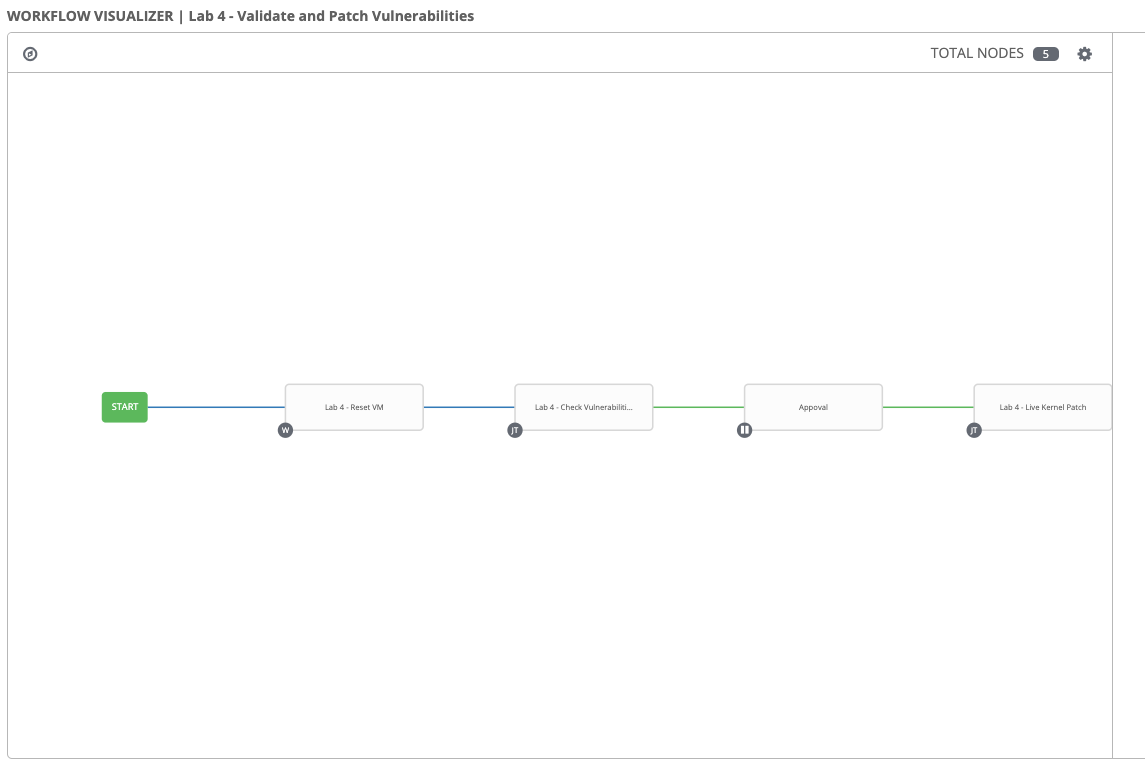
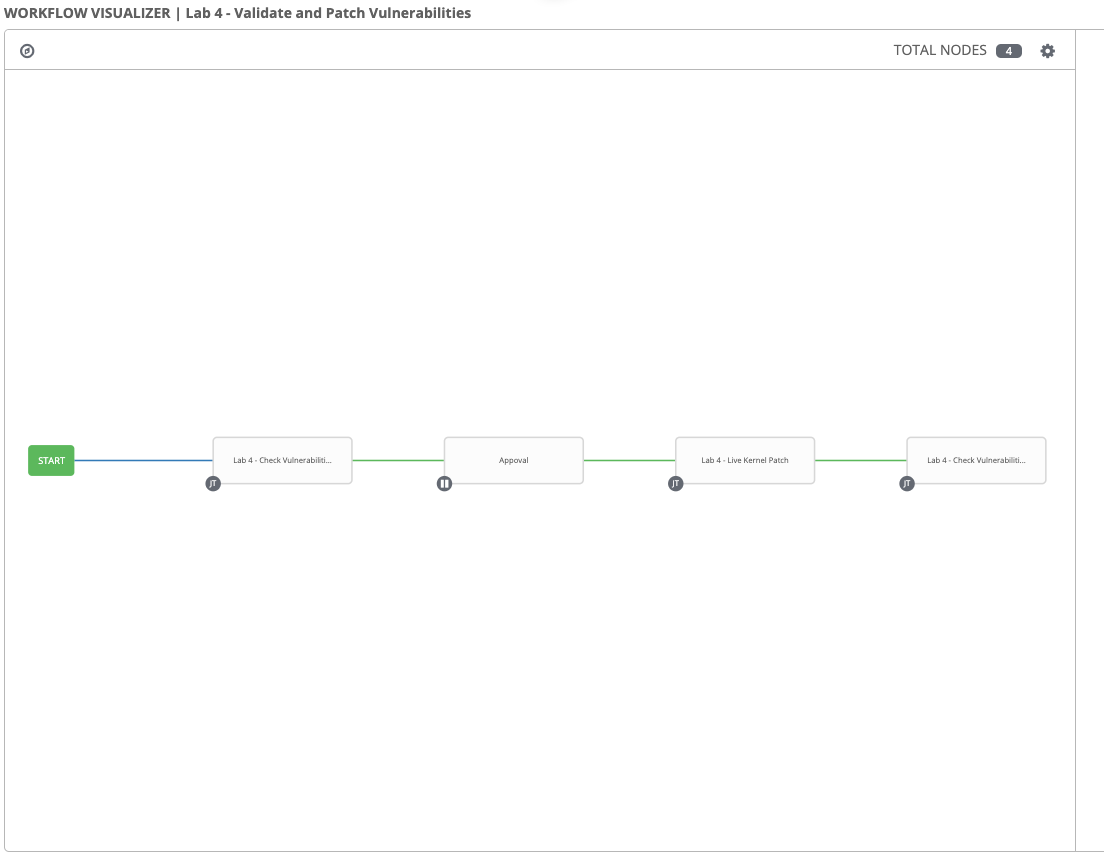
clarify challenge exercise

diff --git a/exercises/4-live-kernel/README.md b/exercises/4-live-kernel/README.md
@@ -310,12 +310,14 @@ Step 4:
 
 Review the details of each node, are the results as expected? Any vulnerability found?
 
-**Hint**: Vulnerabilities were previously fixed on all HANA servers but not on the S4 host.
+**Hint**: Vulnerabilities were previously fixed on all HANA servers but not on the S4 host (sap2vm01).
 
-Challenge Exercise: Reset the lab and add approval step in the workflow
+Challenge Exercise: Add S4 host to list of hosts and add approval step in the workflow
 ======================
 
-In this challenge exercise, you will incorporate Lab 4 - Reset VM node and an approval node in the workflow and re-run. This time add S4 host to the limit to check and potentiall fix any vulnerabilities.
+In this challenge exercise, you will incorporate S4 host into the limit, add an approval node in the workflow and re-run.
+
+This time add S4 host (sap2vm01) to the limit to check and potentially fix any vulnerabilities.
 
 **Hint**: You can either change the limit for both 'Lab 4 - Check Vulnerabilities' and 'Lab 4 - Live Kernel Patch' job templates (i.e. sap2vm* or sap2vm01*:sap2vm02*:sap2vm03*).
 
